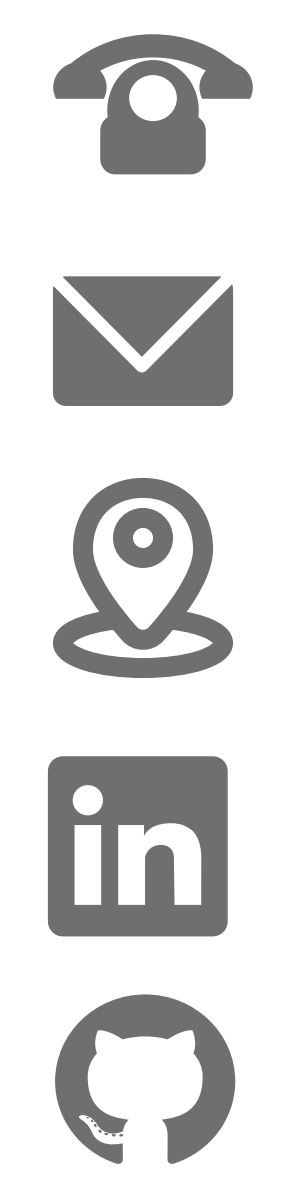
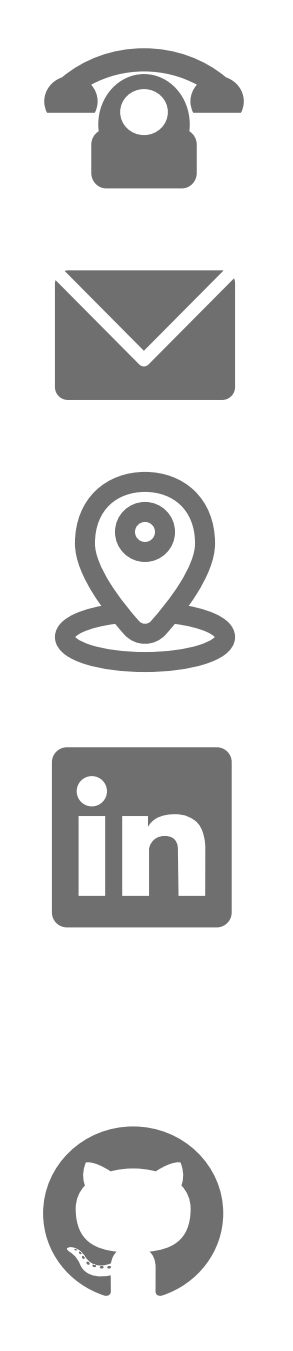
Finish CB

diff --git a/Index.html b/Index.html
@@ -11,7 +11,7 @@
         * {
             margin: 0;
             padding: 0;
-            font-family: "Roboto", sans-serif;
+            font-family: "Helvetica", sans-serif;
         }
         html {
             height: 100%;
@@ -21,12 +21,25 @@
             flex-direction: column;
             height: 842px;
             width: 595px;
-            /* to centre page on screen*/
             margin-left: auto;
             margin-right: auto;
         }
         h1,
-        h2 {
+        h2,
+        h5 {
+            color: #464a4e;
+        }
+        a {
+            text-decoration: none;
+            color: #919090;
+        }
+        ul {
+            font-size: 14px;
+            padding-left: 20px;
+            padding-bottom: 10px;
+            margin-top: 5px;
+        }
+        strong {
             color: #464a4e;
         }
         header {
@@ -60,7 +73,6 @@
         .main-left-column > div,
         .main-right-column > div {
             height: fit-content;
-            padding: 5px 10px;
         }
         .main-left-column,
         .main-right-column {
@@ -73,10 +85,11 @@
             gap: 5px;
             font-size: 12px;
             border-bottom: 1px solid #464a4e;
-            padding-left: 0;
+            border-right: 1px solid #464a4e;
+            padding: 15px 0;
         }
         .main-content-data > img {
-            height: 70px;
+            height: 87px;
         }
         .main-contact-data-container {
             display: flex;
@@ -87,21 +100,69 @@
             padding-right: 0;
             padding-left: 20px;
             padding-bottom: 20px;
-            border-left: 1px solid #464a4e;
             border-bottom: 1px solid #464a4e;
         }
         .main-about-me > p {
-            font-size: 12px;
+            padding-top: 5px;
+            font-size: 14px;
             width: 260px;
         }
-
-        .main-skills > ul {
-            font-size: 14px;
+        .main-skills {
+            padding: 15px 15px;
             border-right: 1px solid #464a4e;
             border-bottom: 1px solid #464a4e;
         }
+        .main-education {
+            padding: 15px 10px;
+            border-right: 1px solid #464a4e;
+            border-bottom: 1px solid #464a4e;
+        }
+        .main-education > h2,
+        .main-education > h5,
+        .main-education > p {
+            margin-bottom: 5px;
+        }
+        .main-education > p,
+        .main-education-years {
+            font-size: 14px;
+        }
+        .main-education-years {
+            padding-top: 10px;
+        }
+        .main-languages {
+            padding: 15px 10px;
+            border-right: 1px solid #464a4e;
+        }
+        .main-experience {
+            padding: 15px 20px;
+            border-bottom: 1px solid #464a4e;
+        }
+        .main-experience > p,
+        .main-experience > span {
+            font-size: 14px;
+        }
+        .main-experience > h5,
+        .main-experience > div {
+            margin-bottom: 5px;
+        }
+        .main-projects {
+            padding: 15px 20px;
+        }
+        .main-projects > h2,
+        .main-experience > h2 {
+            margin-bottom: 10px;
+        }
+        .main-projects > h5 {
+            margin-bottom: 5px;
+        }
+        .main-projects > p,
+        .main-projects > span {
+            font-size: 14px;
+        }
+
         footer {
-            background-color: greenyellow;
+            margin-top: 40px;
+            font-size: 7px;
         }
     </style>
     <body>
@@ -129,10 +190,16 @@
                             Gdańsk, Poland
                         </div>
                         <div class="main-contact-text-container">
-                            linkedin.com/in/piotr-tomczyk-652b13236/
+                            <a
+                                href="https://www.linkedin.com/in/piotr-tomczyk-652b13236/"
+                            >
+                                linkedin.com/in/piotr-tomczyk-652b13236/
+                            </a>
                         </div>
                         <div class="main-contact-text-container">
-                            github.com/piotr-tomczyk/
+                            <a href="https://github.com/piotr-tomczyk">
+                                github.com/piotr-tomczyk/
+                            </a>
                         </div>
                     </div>
                 </div>
@@ -145,13 +212,34 @@
                         <li>Node.js</li>
                         <li>CSS</li>
                     </ul>
-                    <h2>ALSO FAMILLIAR WITH</h2>
+                    <h2>FAMILLIAR WITH</h2>
                     <ul>
                         <li>GCP</li>
                         <li>MongoDb/DynamoDb</li>
+                        <li>Web extensions</li>
                         <li>SQL/NoSQL Databases</li>
                         <li>Angular</li>
                         <li>Python</li>
+                    </ul>
+                </div>
+                <div class="main-education">
+                    <h2>EDUCATION</h2>
+                    <h5>ENGINEER DEGREE</h5>
+                    <p>
+                        Gdańsk University of Technology
+                        <br />
+                        Computer Science
+                        <br />
+                    </p>
+                    <span class="main-education-years">
+                        <strong>2019-2023</strong>
+                    </span>
+                </div>
+                <div class="main-languages">
+                    <h2>LANGUAGES</h2>
+                    <ul>
+                        <li>English B2/C1</li>
+                        <li>Polish Native</li>
                     </ul>
                 </div>
             </div>
@@ -166,8 +254,60 @@
                         simulation, speedcubing and music/movies/books.
                     </p>
                 </div>
+                <div class="main-experience">
+                    <h2>EXPERIENCE</h2>
+                    <h5>WEB DEVELOPER</h5>
+                    <div class="main-experience-company">Appfire</div>
+                    <span><strong>2022 - present</strong></span>
+                    <ul>
+                        <li>
+                            Technologies learnned: JavaScript, Node.js, Vue.js,
+                            GCP, MongoDb, DynamoDb.
+                        </li>
+                        <li>
+                            Responsible for: Developing, maintaining and
+                            deploying software that's part of Jira
+                            Software/Cloud applications on backend and frontend
+                            side, monitoring GCP infrastracture.
+                        </li>
+                    </ul>
+                </div>
+                <div class="main-projects">
+                    <h2>PROJECTS</h2>
+                    <h5>ENGINEER DEGREE PROJECT</h5>
+                    <span>Gdańsk University of Technology</span>
+                    <br />
+                    <span
+                        >Technologies used for the project: Typescript, Vue.js,
+                        Webpack, Python, Websockets.
+                    </span>
+                    <br />
+                    <br />
+                    <p>
+                        My diploma project was an web extension called Vodwatch.
+                        It's purpose is that users of Youtube, Netflix and HBO
+                        Max, could videos synchronously with other users.
+                        Extension took a form of a widget with UI written in
+                        Vue.js and Typescript and backend code with Python. The
+                        websocket connections were implemented with help of
+                        Socket.IO. The extension is available to download at
+                        Chrome web store under a name "vodwatch".
+                    </p>
+                </div>
             </div>
         </main>
-        <footer><div>Super</div></footer>
+        <footer>
+            <p>
+                I agree to the processing of personal data provided in this
+                document for realising the recruitment process pursuant to the
+                Personal Data Protection Act of 10 May 2018 (Journal of Laws
+                2018, item 1000) and in agreement with Regulation (EU) 2016/679
+                of the European Parliament and of the Council of 27 April 2016
+                on the protection of natural persons with regard to the
+                processing of personal data and on the free movement of such
+                data, and repealing Directive 95/46/EC (General Data Protection
+                Regulation).
+            </p>
+        </footer>
     </body>
 </html>
